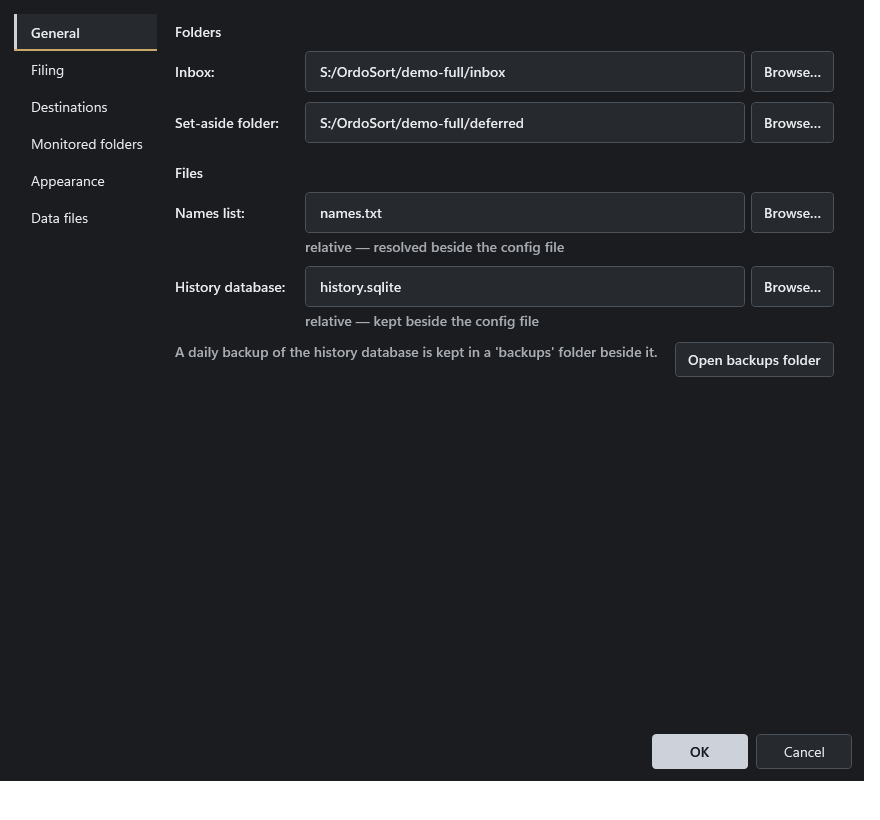
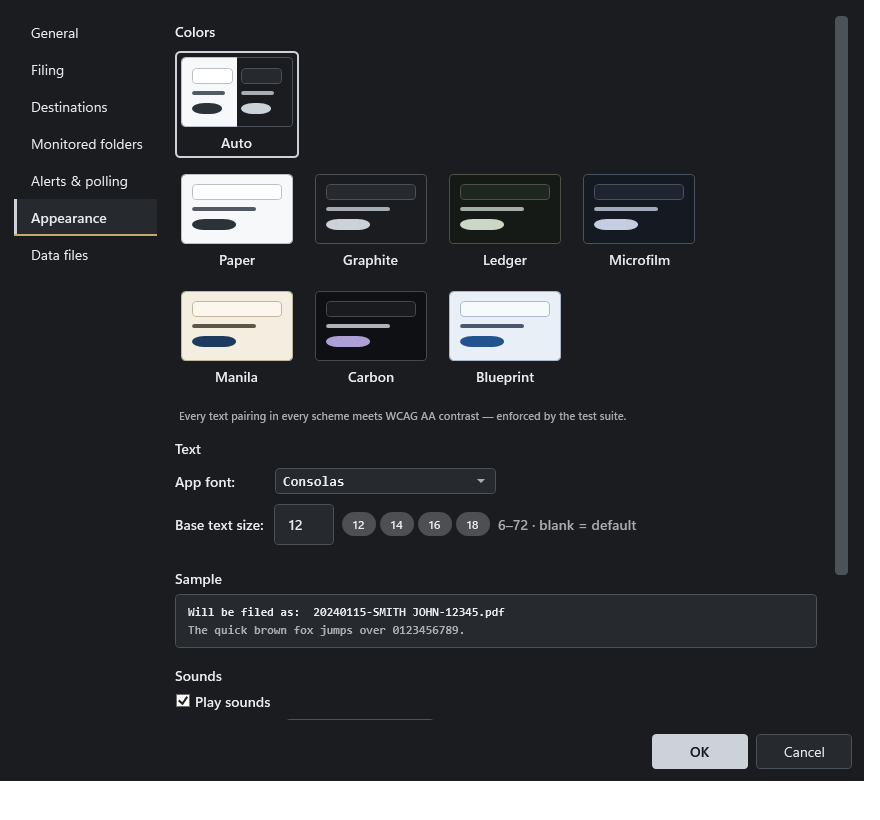
chore(web): gallery shows the redesigned app
Settings gallery shot moves to the Appearance page - the seven scheme
cards are the flagship and the shot leaks no local paths; label-maker
shot re-rendered from the redesigned app. Alt text and caption follow.

Claude-Session: https://claude.ai/code/session_01E2VacsFAndJD2a8nFqUuFT

diff --git a/ordosort.com/index.html b/ordosort.com/index.html
@@ -198,16 +198,16 @@
           <picture class="pic-default">
             <source srcset="assets/shot-settings-dark.png" media="(prefers-color-scheme: dark)">
             <img class="shot" src="assets/shot-settings-light.png" loading="lazy"
-                 alt="The Settings window: sectioned pages with live previews of routes and naming"
+                 alt="The Settings window on the Appearance page: seven color scheme cards with live previews"
                  width="880" height="820">
           </picture>
           <img class="shot shot-light" src="assets/shot-settings-light.png" loading="lazy"
-               alt="The Settings window: sectioned pages with live previews of routes and naming"
+               alt="The Settings window on the Appearance page: seven color scheme cards with live previews"
                width="880" height="820">
           <img class="shot shot-dark" src="assets/shot-settings-dark.png" loading="lazy"
-               alt="The Settings window: sectioned pages with live previews of routes and naming"
+               alt="The Settings window on the Appearance page: seven color scheme cards with live previews"
                width="880" height="820">
-          <figcaption>Settings, with live previews everywhere</figcaption>
+          <figcaption>Seven color schemes, previewed live in Settings</figcaption>
         </figure>
         <figure>
           <picture class="pic-default">
